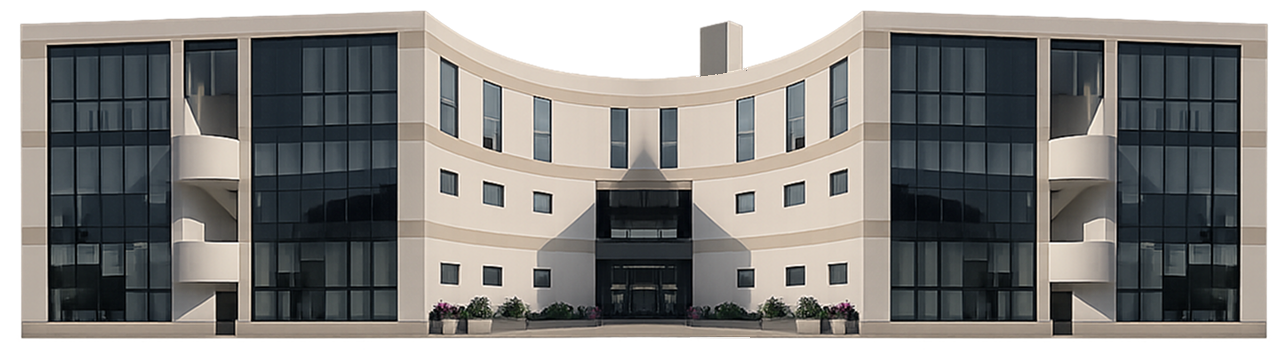
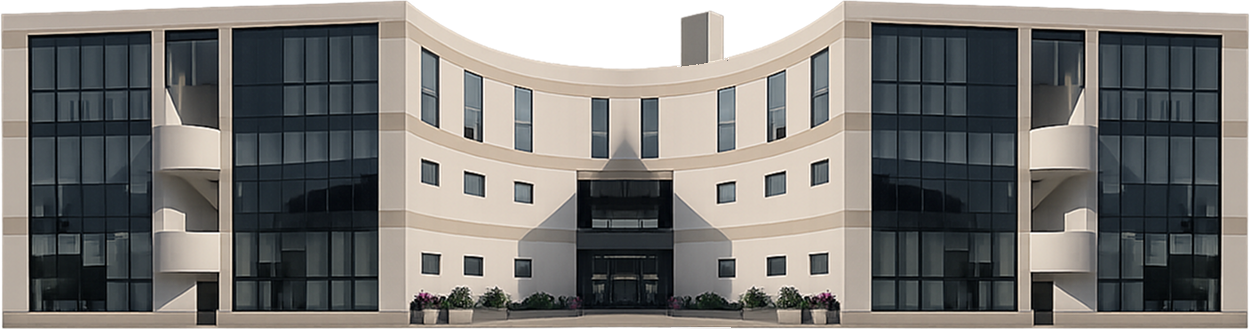
Our Journey: every building stands on the same line in all three folds
The cutouts carried different amounts of transparent margin (91px under
Growth, 129px above and 153px under Expansion), so bottom-aligned in the
same box their feet landed at different heights. They are trimmed to the
building. On phones each image also took its own phase's slack, so a
shorter card meant a taller box; every phase now shares one image height,
set by the tallest phase's copy.

diff --git a/index.html b/index.html
@@ -5042,6 +5042,31 @@ class Component extends DCLogic {
       stage.style.setProperty('--cm-j-art-h', h + 'px');
     };
 
+    // One image height for every phase (client 2026-09-28: the building moved
+    // up and down between phases). Left to flex, each image took whatever its
+    // own phase's copy left over, so a shorter card meant a taller box and a
+    // lower building. Publish the TALLEST phase's copy instead and size every
+    // image off it (home-mobile.css), so all three share one box and one foot.
+    // The copy is measured from the image's foot to the card's, which does not
+    // depend on the image's own height.
+    let copyH = -1;
+    const syncCopy = () => {
+      const h = Math.ceil(Math.max(...phases.map((ph) => {
+        const img = ph.querySelector('.cm-journey-img');
+        const last = ph.lastElementChild;
+        if (!img || !last || last === img) return 0;
+        return last.getBoundingClientRect().bottom - img.getBoundingClientRect().bottom;
+      })));
+      if (h === copyH) return;
+      copyH = h;
+      stage.style.setProperty('--cm-j-copy-h', h + 'px');
+      artH = -1;
+      syncArt();
+    };
+    syncCopy();
+    if ('ResizeObserver' in window) new ResizeObserver(syncCopy).observe(stage);
+    if (document.fonts && document.fonts.ready) document.fonts.ready.then(syncCopy);
+
     setActive(0);
 
     // Client 2026-08-09 (p25): prev/next arrows over the same scroll model.

diff --git a/tests/home-mobile.spec.js b/tests/home-mobile.spec.js
@@ -440,13 +440,16 @@ test.describe('mobile home', () => {
 
     // The phase fills the pin. Centring ~400px of content in a 100svh stage
     // left visible dead space above the photo and below the last record; the
-    // photo now flexes to take up the slack.
+    // image takes up the slack. Every phase shares ONE image height (client
+    // 2026-09-28: the building must not ride up and down between phases), set
+    // by the tallest phase's copy — so it is that phase which fills the pin,
+    // and a shorter one ends a little higher. Measure the least slack.
     const slack = await page.evaluate(() => {
       const s = document.querySelector('#cap-mobile .cm-j-stage').getBoundingClientRect();
       const ph = document.querySelector('#cap-mobile .cm-j-phase.is-on').getBoundingClientRect();
-      const last = document.querySelector('#cap-mobile .cm-j-phase.is-on .cm-jf-card')
-        .getBoundingClientRect();
-      return { above: ph.top - s.top, below: s.bottom - last.bottom };
+      const lows = [...document.querySelectorAll('#cap-mobile .cm-j-phase .cm-jf-card')]
+        .map((c) => s.bottom - c.getBoundingClientRect().bottom);
+      return { above: ph.top - s.top, below: Math.min(...lows) };
     });
     expect(slack.above, 'dead space above the phase').toBeLessThanOrEqual(30);
     expect(slack.below, 'dead space below the highlight card').toBeLessThanOrEqual(40);

diff --git a/shared/css/home-mobile.css b/shared/css/home-mobile.css
@@ -387,6 +387,16 @@
   border-radius: 0;
   filter: drop-shadow(0 10px 14px rgba(40, 55, 70, 0.22));
 }
+/* In the stage every phase's image gets the SAME height: what the tallest
+   phase's copy (--cm-j-copy-h, measured by _setupMobileJourney) leaves, less
+   the card's 18px bottom margin. Otherwise each image took its own phase's
+   slack and the building rode up and down between phases (client 2026-09-28).
+   The cutouts are trimmed to the building, so object-position's bottom is the
+   building's foot. */
+#cap-mobile .cm-j-stage .cm-j-phase .cm-journey-img {
+  flex: 0 0 auto;
+  height: max(110px, calc(100% - var(--cm-j-copy-h, 0px) - 18px));
+}
 /* Staggered, not a straight cross-fade. The phases sit exactly on top of one
    another, so overlapping fades double-expose the text and both are legible
    at once — the outgoing one clears first, then the incoming rises in. */
